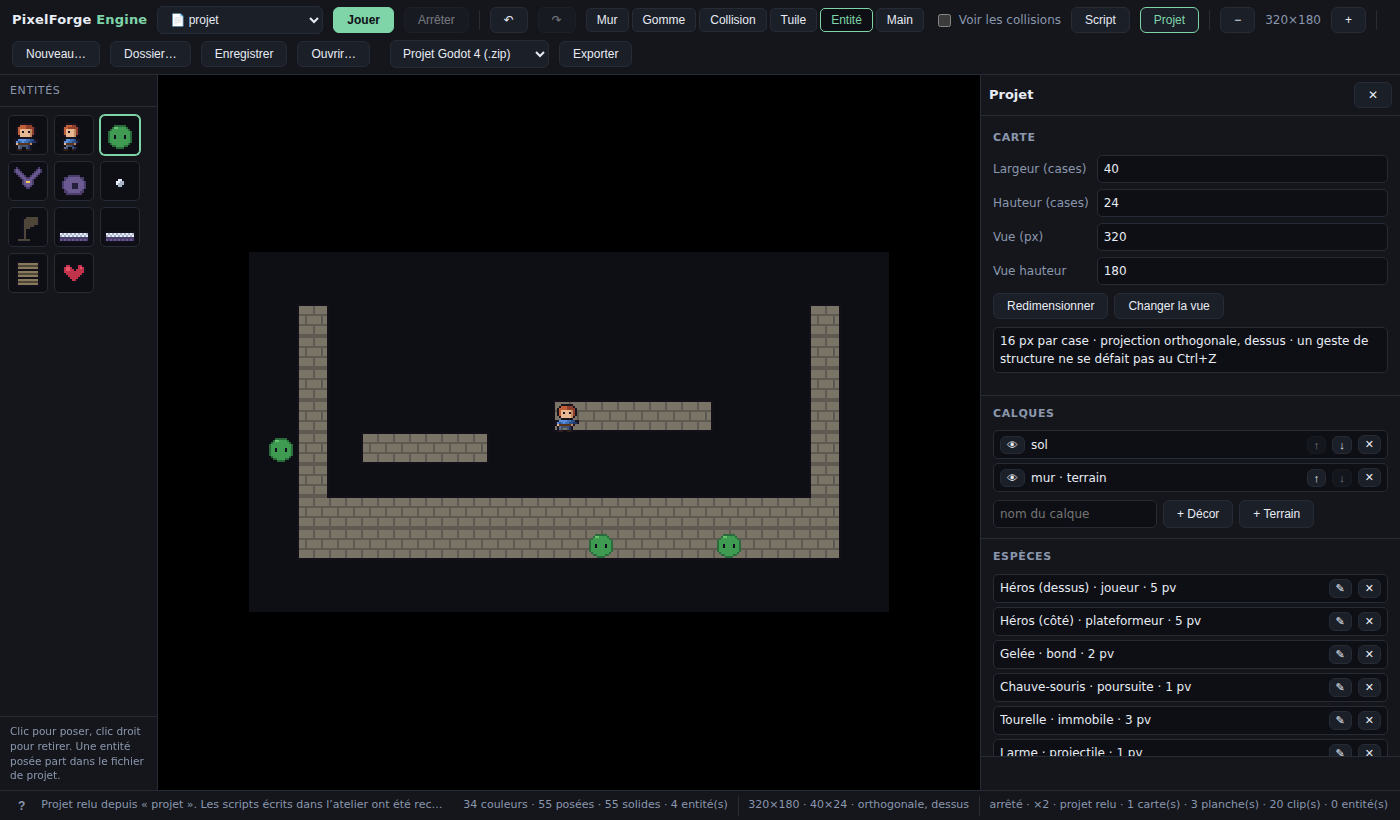
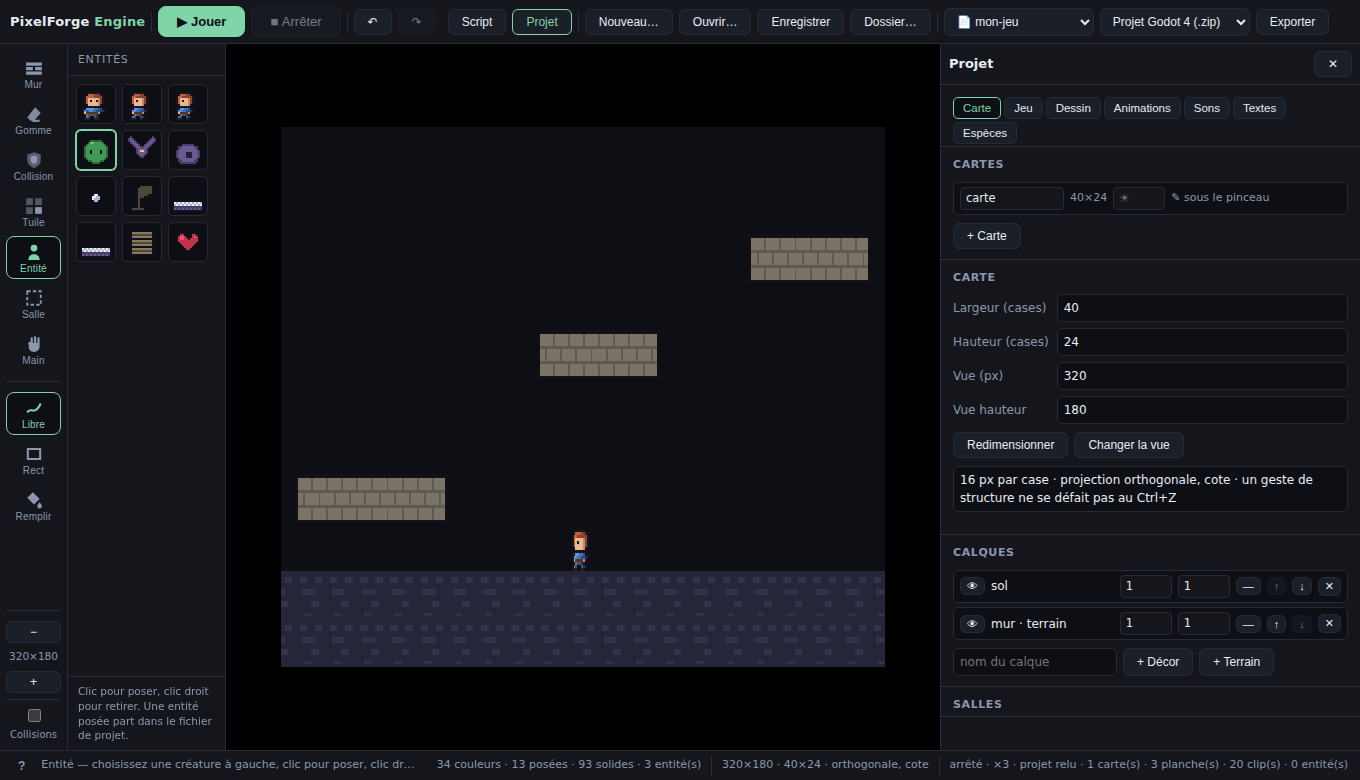
Le premier lancement se comprend sans rien apprendre — et il est prouvé
Suite de la refonte. Le panneau Projet empilait sept blocs sous
« Carte » : la taille de la carte se noyait sous les déclencheurs.
L'onglet « Jeu » regroupe maintenant ce qui fait d'une liste de cartes
une partie — déroulé, déclencheurs, lumière — et « Carte » redevient
la structure : cartes, taille, calques, salles.

L'aide « ? » décrit la nouvelle interface : l'accueil et ses deux
départs, le dock et ses raccourcis 1 à 7, le pied de page qui explique
l'outil courant.

Le README montre le vrai produit : l'accueil en tête, l'éditeur avec
son dock, la palette d'entités et un niveau en train de se peindre —
quatre captures neuves prises sur l'interface d'aujourd'hui, pas sur
celle d'il y a trois refontes.

Et surtout, la fumée refait LE PARCOURS ENTIER d'un premier
lancement : la page s'ouvre sur trois départs nommés, « Jeu de
plateforme » naît JOUABLE — quatre-vingts cases de sol solide, le
héros les pieds dessus, le pied de page qui explique l'outil sans
qu'on demande — on peint une plateforme, on joue, et le héros saute
dessus. Si ce parcours casse, rien d'autre ne compte : c'est
exactement le trajet de la personne qui a dit « je lance ça, je
comprends rien ».

Preuves : fumee 119, l'agent tient 83/83 critères sur 973
vérifications.

Claude-Session: https://claude.ai/code/session_01VmVMdfrWJCxEWeszTz99Ch

diff --git a/src/editeur/projet-panneau.ts b/src/editeur/projet-panneau.ts
@@ -148,7 +148,7 @@ export class PanneauProjet {
    * Des onglets rendent chaque section atteignable en un clic — au prix d'un
    * clic de plus pour celle qu'on regardait.
    */
-  private onglet: 'carte' | 'dessin' | 'animations' | 'sons' | 'textes' | 'especes' = 'carte'
+  private onglet: 'carte' | 'jeu' | 'dessin' | 'animations' | 'sons' | 'textes' | 'especes' = 'carte'
   /** La planche et la case qu'on dessine. */
   private plancheEditee = 0
   private caseEditee = 0
@@ -196,8 +196,14 @@ export class PanneauProjet {
     this.corps.textContent = ''
     this.onglets()
     if (this.onglet === 'carte') {
+      // La STRUCTURE : les cartes, leur taille, leurs calques, leurs salles.
       this.blocCartes(p); this.blocCarte(p); this.blocCalques(p); this.blocSalles(p)
-      this.blocDeclencheurs(p); this.blocDeroule(p); this.blocLumiere(p); this.blocNeuf()
+      this.blocNeuf()
+    } else if (this.onglet === 'jeu') {
+      // Le JEU : ce qui fait d'une liste de cartes une partie — le titre et
+      // l'ordre, les declencheurs, la lumiere. Empile sous « Carte », tout
+      // cela noyait la taille de la carte sous sept blocs.
+      this.blocDeroule(p); this.blocDeclencheurs(p); this.blocLumiere(p)
     }
     else if (this.onglet === 'especes') this.blocEspeces(p)
     else if (this.onglet === 'dessin') this.blocDessin()
@@ -210,7 +216,7 @@ export class PanneauProjet {
     const barre = document.createElement('div')
     barre.className = 'onglets'
     const items: [typeof this.onglet, string][] = [
-      ['carte', 'Carte'], ['dessin', 'Dessin'], ['animations', 'Animations'],
+      ['carte', 'Carte'], ['jeu', 'Jeu'], ['dessin', 'Dessin'], ['animations', 'Animations'],
       ['sons', 'Sons'], ['textes', 'Textes'], ['especes', 'Espèces'],
     ]
     for (const [id, nom] of items) {

diff --git a/src/editeur/main.ts b/src/editeur/main.ts
@@ -972,8 +972,12 @@ animations, la scène, le catalogue des espèces. Il se rouvre, il se joue, il
 s’exporte vers Godot ou Unity.</p>
 
 <h4>Commencer</h4>
-<p><b>Nouveau…</b> crée un projet vide avec une carte, deux calques et un héros
-au milieu. <b>Dossier…</b> choisit où il s’enregistre ; sans dossier,
+<p>L’accueil propose deux départs : <b>jeu de plateforme</b> (vue de côté,
+gravité, un sol déjà posé) ou <b>vue de dessus</b> (on marche dans les quatre
+sens). <b>Nouveau…</b> refait ce départ à tout moment. Les outils vivent dans
+le <b>dock de gauche</b> — un chiffre par outil, de <kbd>1</kbd> à
+<kbd>7</kbd> — et le bas de l’écran explique toujours l’outil courant.
+<b>Dossier…</b> choisit où le projet s’enregistre ; sans dossier,
 <b>Enregistrer</b> télécharge le fichier.</p>
 
 <h4>Dessiner</h4>
@@ -1025,10 +1029,11 @@ joue. Un script ne parle qu’à <code>c</code>, le contexte de jeu, et
 <code>n</code>, son nœud — pour qu’il traverse l’export.</p>
 
 <h4>Les raccourcis</h4>
-<p><kbd>Ctrl</kbd>+<kbd>S</kbd> enregistrer · <kbd>Ctrl</kbd>+<kbd>Z</kbd>
-défaire · <kbd>Ctrl</kbd>+<kbd>Maj</kbd>+<kbd>Z</kbd> refaire ·
-<kbd>+</kbd> / <kbd>−</kbd> le cadre d’édition · molette du milieu ou outil
-<b>Main</b> pour déplacer la vue.</p>
+<p><kbd>1</kbd>…<kbd>7</kbd> les outils du dock · <kbd>Ctrl</kbd>+<kbd>S</kbd>
+enregistrer · <kbd>Ctrl</kbd>+<kbd>Z</kbd> défaire ·
+<kbd>Ctrl</kbd>+<kbd>Maj</kbd>+<kbd>Z</kbd> refaire · <kbd>+</kbd> /
+<kbd>−</kbd> le cadre d’édition · molette du milieu ou outil <b>Main</b> pour
+déplacer la vue.</p>
 `
 
 {

diff --git a/README.md b/README.md
@@ -5,7 +5,17 @@ Un éditeur de jeux 2D **fait pour le pixel art**, de bout en bout.
 Ce n'est pas un moteur généraliste avec un mode pixel art. C'est l'inverse : la
 grille de pixels est le contrat de base, et tout le reste s'y plie.
 
-## Quatre mondes, un seul moteur
+![L'accueil : trois choix, une phrase](docs/accueil.png)
+
+On lance, on choisit — **jeu de plateforme** ou **vue de dessus** — et l'on est
+dans son jeu : un sol déjà posé, un héros dessus, les outils dans le dock de
+gauche avec leur raccourci, et le bas de l'écran qui explique l'outil courant.
+Peindre, poser une gelée, appuyer sur **▶ Jouer** : la première partie se joue
+dans la première minute.
+
+![L'éditeur : le dock, la palette d'entités, un niveau qui se peint](docs/editeur.png)
+
+## Quatre mondes d'exemple, un seul moteur
 
 |  |  |
 | --- | --- |
@@ -295,9 +305,12 @@ autre, et tout ce qui y renvoyait pointerait dans le vide.
 
 ![Un projet parti de zéro : la carte, les calques, les espèces](docs/projet.png)
 
-**Nouveau…** donne un projet vide et jouable — les deux ne se contredisent
-pas : il y a une carte, deux calques, un héros au milieu et le catalogue des
-espèces. Ce qui manque, c'est le décor, et c'est justement ce qu'on vient
+**Nouveau…** — ou l'accueil — donne un projet **né jouable** : une carte au
+sol déjà peint, deux calques, un héros posé dessus et le catalogue des
+espèces. En vue de côté, le sol du bas naît solide : un projet plateforme qui
+s'ouvrirait sur une chute libre dans le noir ne dirait pas « éditeur », il
+dirait « cassé ». Ce qui manque, c'est *votre* décor, et c'est justement ce
+qu'on vient
 dessiner. Un projet neuf sans héros s'ouvrirait sur un rectangle noir où
 « Jouer » ne ferait rien, et la première impression serait « c'est cassé ».
 
@@ -779,7 +792,7 @@ npm run banc:langages   #  96 vérifications : chargeurs, accord entre langages,
 npm run banc:reseau     #  33 vérifications : instantanés, rembobinage, perte de paquets
 npm run banc:habillage  # 112 vérifications : fonte, son, musique, WAV, traduction, menus, sauvegarde
 npm run banc:charge     #  13 mesures de cadence — mesurées, pas promises
-npm run fumee           # 115 vérifications de l'éditeur et du jeu-témoin, dans un vrai navigateur
+npm run fumee           # 119 vérifications de l'éditeur et du jeu-témoin, dans un vrai navigateur
 npm run banc:image      #  30 vérifications de ce que l'image de production emporte
 npm run banc:deploiement#   9 vérifications : l'application sous les en-têtes réels
 npm run agent           # la grille : 73 critères, et ce qu'il reste à faire
